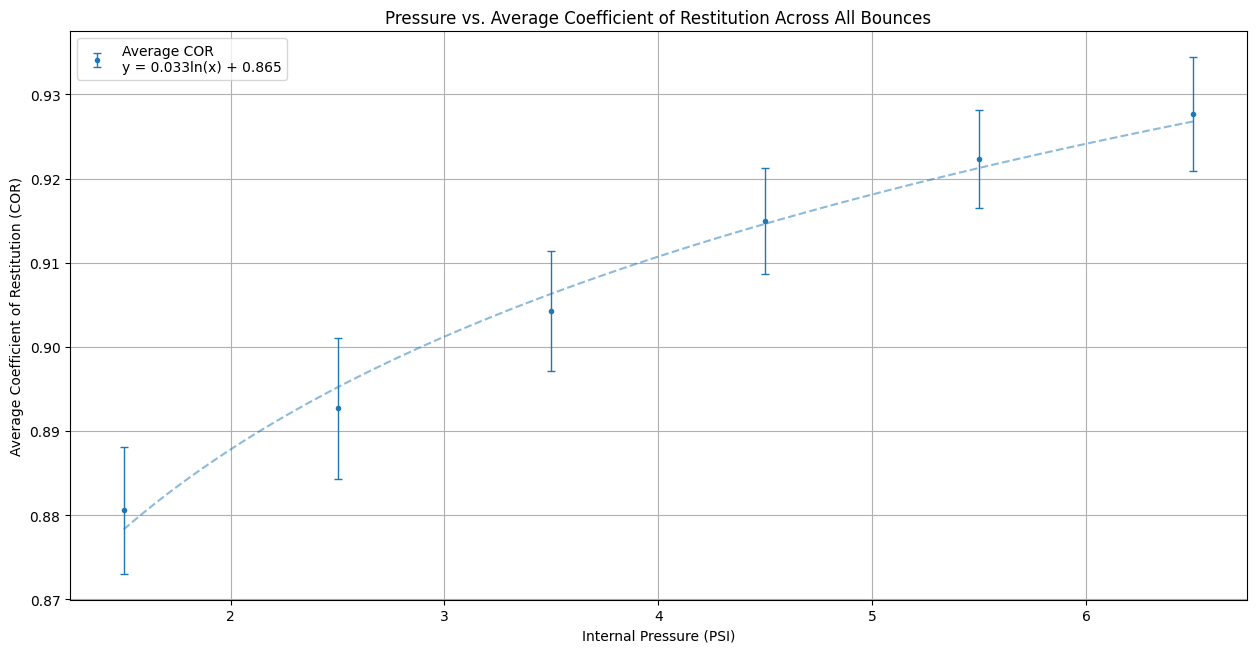
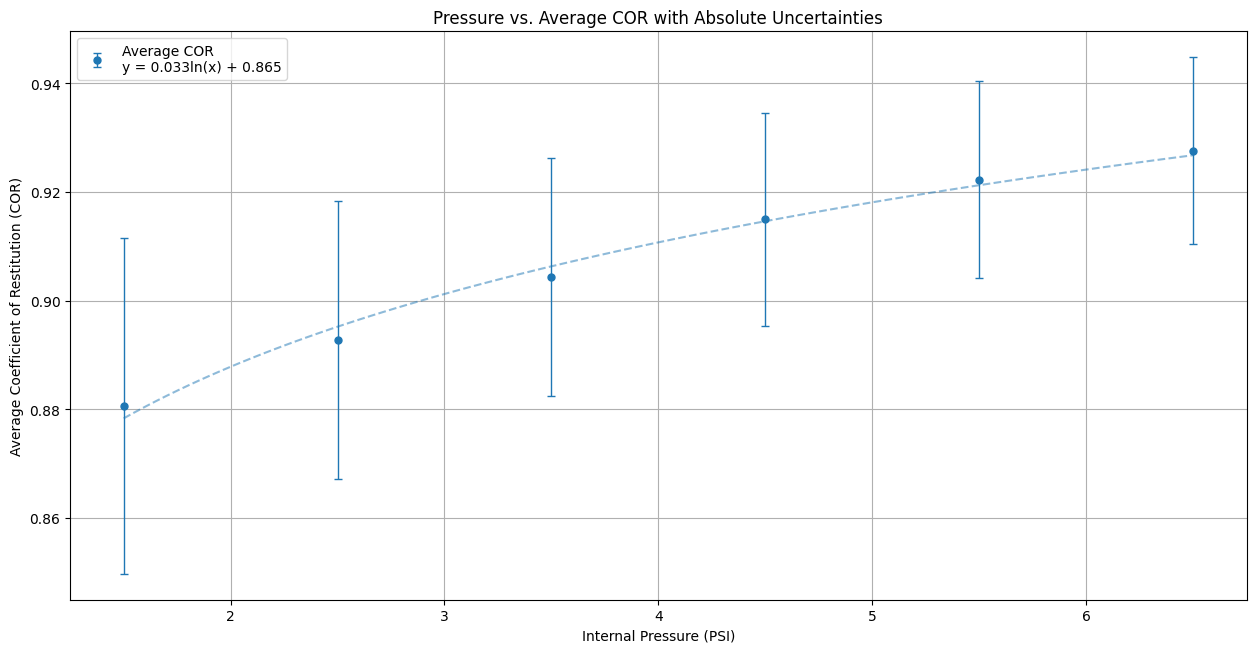
calculation of the avg COR redone

diff --git a/IA program for graphs/data_analysis.py b/IA program for graphs/data_analysis.py
@@ -624,6 +624,35 @@ if show_graphs:
     plt.grid(True)
     plot_and_save(fig6, 'pressure_vs_all_cor.png')
 
+    # 7. Average COR vs Pressure plot with logarithmic fit
+    fig7 = plt.figure(figsize=(15.18, 7.38))
+    
+    # Get data from df_cor_analysis
+    pressures = df_cor_analysis['Pressure (PSI)'].values
+    avg_cors = df_cor_analysis['Average COR'].values
+    abs_uncertainties = df_cor_analysis['Avg Absolute Uncertainty'].values
+    
+    # Add logarithmic fit and create label with equation
+    z = np.polyfit(np.log(pressures), avg_cors, 1)
+    equation = f'y = {z[0]:.3f}ln(x) + {z[1]:.3f}'
+    
+    # Plot data with error bars
+    line = plt.errorbar(pressures, avg_cors, yerr=abs_uncertainties,
+                fmt='o', label=f'Average COR\n{equation}',
+                markersize=5, capsize=3, capthick=1, elinewidth=1)
+    
+    # Plot logarithmic fit
+    x_fit = np.linspace(min(pressures), max(pressures), 100)
+    plt.plot(x_fit, z[0] * np.log(x_fit) + z[1], '--', alpha=0.5, 
+             color=line.lines[0].get_color())
+
+    plt.xlabel('Internal Pressure (PSI)')
+    plt.ylabel('Average Coefficient of Restitution (COR)')
+    plt.title('Pressure vs. Average COR with Absolute Uncertainties')
+    plt.legend()
+    plt.grid(True)
+    plot_and_save(fig7, 'pressure_vs_average_cor.png')
+
     if save_graphs:
         print("\nGraphs have been saved successfully.")
 
